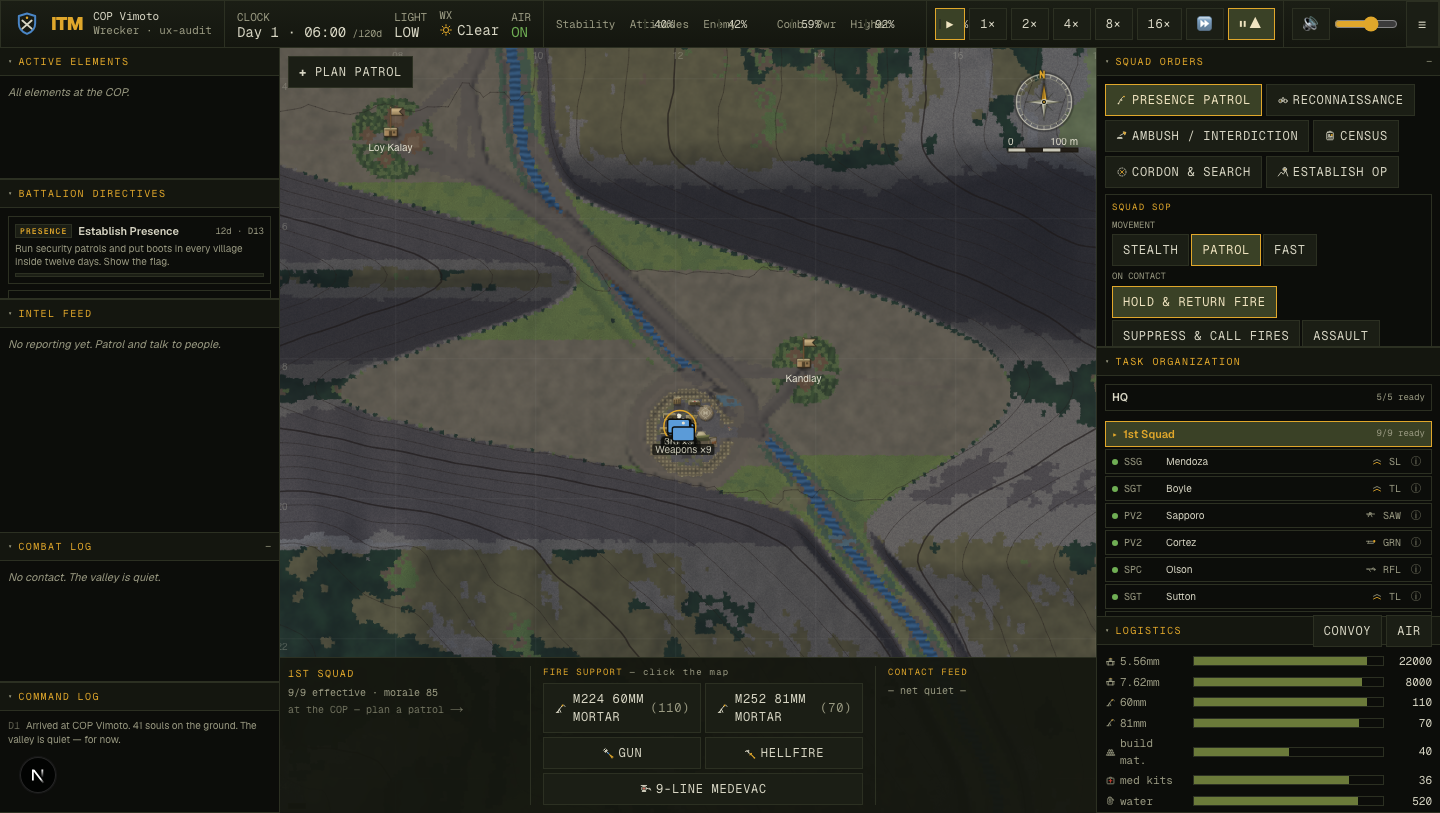
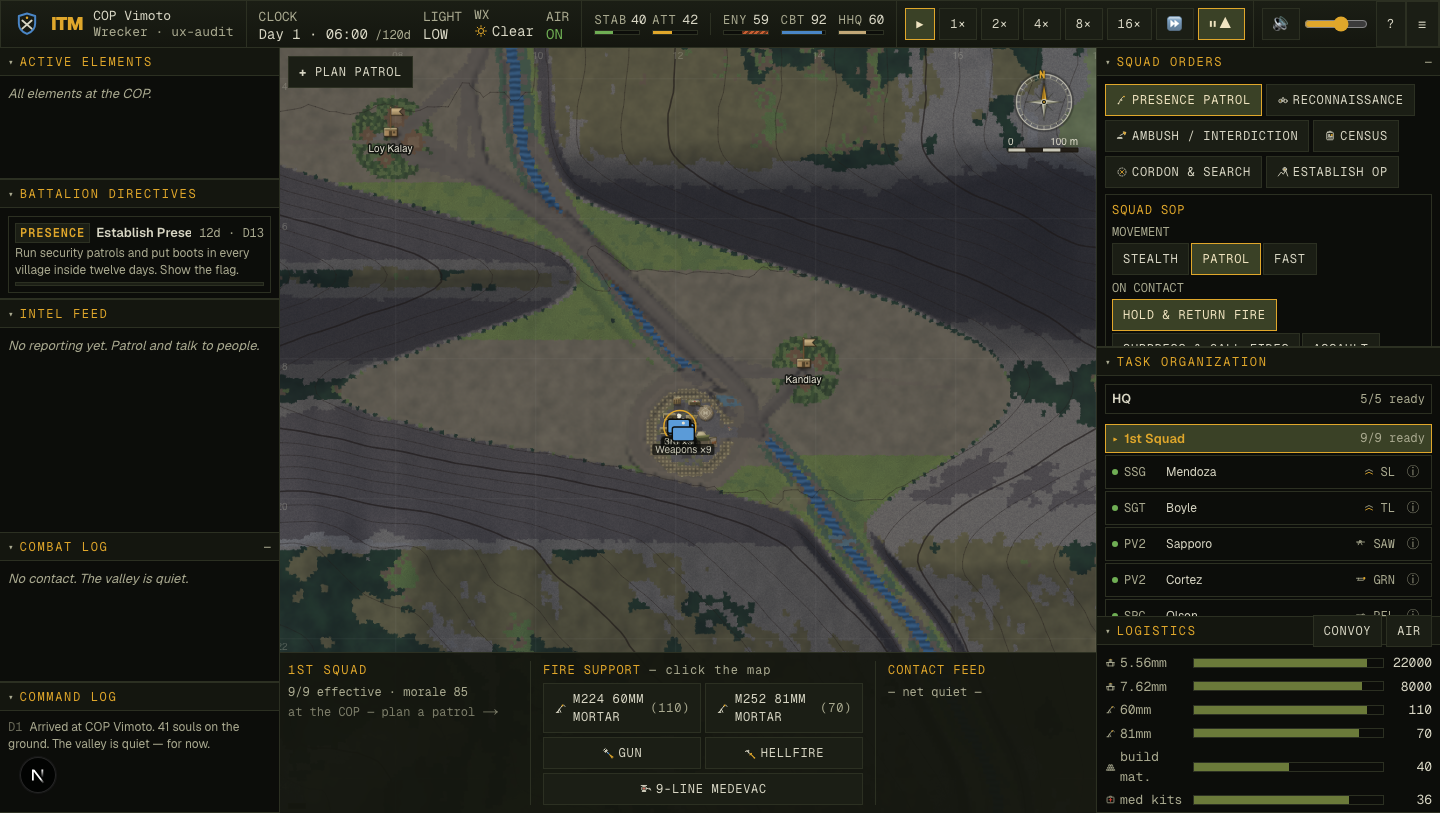
feat(ux): in-canvas tactical text floor — map labels >=11px with a dark halo
Round 3c. The map labels were the smallest text in the product (8–10px),
read ON the terrain under TIC's 1× clock — exactly where legibility matters
for the quality bar, and invisible to the DOM audit.

- haloText() helper: strokes a dark outline then fills, so terrain-floating
  labels (feature names, village names) stay legible over busy ground.
- village names 10→12px (haloed), feature names 9→11px (haloed), squad-intent
  banners / waypoint numbers / call-for-fire / scale bar bold 9→11px.

Canvas-only change; lib/render stays React-free. No clutter at default zoom
(verified). tsc clean.

diff --git a/components/world/WorldView.tsx b/components/world/WorldView.tsx
@@ -46,6 +46,16 @@ function unitsCentroid(us: { pos: { x: number; y: number } }[]): { x: number; y:
   return { x: x / n, y: y / n };
 }
 
+/** A map label with a dark halo so it stays legible over busy terrain (the
+ *  fillStyle is set by the caller; this strokes a dark outline, then fills). */
+function haloText(ctx: CanvasRenderingContext2D, text: string, x: number, y: number) {
+  ctx.lineJoin = "round";
+  ctx.lineWidth = 3;
+  ctx.strokeStyle = "rgba(12,13,10,0.85)";
+  ctx.strokeText(text, x, y);
+  ctx.fillText(text, x, y);
+}
+
 /** A capped maneuver arrow with a filled head (screen coords). */
 function drawManeuverArrow(ctx: CanvasRenderingContext2D, x0: number, y0: number, x1: number, y1: number, color: string) {
   const ang = Math.atan2(y1 - y0, x1 - x0);
@@ -224,13 +234,13 @@ export default function WorldView() {
       const fid = "marker-" + (f.kind === "bridge" ? "bridge" : f.kind === "junction" ? "junction" : f.kind === "saddle" ? "saddle" : f.kind === "spur" ? "spur" : f.kind === "draw" ? "draw" : "peak");
       const drew = hasSprite(fid) && drawScreenSprite(ctx, fid, x, y, 22);
       if (!drew) {
-        ctx.fillStyle = "rgba(216,214,196,0.5)";
-        ctx.font = "9px var(--font-mono, monospace)";
-        ctx.fillText("▲ " + f.name, x, y - 4);
-      } else if (cam.ppm > 0.4) {
         ctx.fillStyle = "rgba(216,214,196,0.62)";
-        ctx.font = "9px var(--font-mono, monospace)";
-        ctx.fillText(f.name, x, y + 16);
+        ctx.font = "11px var(--font-mono, monospace)";
+        haloText(ctx, "▲ " + f.name, x, y - 4);
+      } else if (cam.ppm > 0.4) {
+        ctx.fillStyle = "rgba(220,218,200,0.72)";
+        ctx.font = "11px var(--font-mono, monospace)";
+        haloText(ctx, f.name, x, y + 16);
       }
     }
 
@@ -301,9 +311,9 @@ export default function WorldView() {
         ctx.stroke();
       }
       ctx.textAlign = "center";
-      ctx.fillStyle = "rgba(232,229,212,0.95)";
-      ctx.font = "10px var(--font-mono, monospace)";
-      ctx.fillText(v.name, x, y + 14);
+      ctx.fillStyle = "rgba(234,231,214,0.98)";
+      ctx.font = "12px var(--font-mono, monospace)";
+      haloText(ctx, v.name, x, y + 15);
       if (v.lastVisitedDay >= 0) {
         ctx.fillStyle = "#6fae54";
         ctx.fillText("✓", x + 20, y - 8);
@@ -518,7 +528,7 @@ export default function WorldView() {
       else if (ss === "suppress") { txt = `${sqName} · SUPPRESSING`; col = "rgba(224,167,43,0.96)"; }
       else if (ss === "hold" || ss === "react") { txt = `${sqName} · CONTACT`; col = "rgba(224,167,43,0.96)"; }
       else if (cam.ppm < 0.4) continue; // out of contact: only label at closer zoom to avoid clutter
-      ctx.font = "bold 9px var(--font-mono, monospace)";
+      ctx.font = "bold 11px var(--font-mono, monospace)";
       const wpx = ctx.measureText(txt).width + 8;
       const ly = byTop - 24;
       ctx.fillStyle = "rgba(12,13,10,0.72)";
@@ -637,7 +647,7 @@ export default function WorldView() {
           ctx.fill();
         }
         ctx.fillStyle = drewWp ? "#1c160e" : "#0c0d0a";
-        ctx.font = "bold 9px var(--font-mono, monospace)";
+        ctx.font = "bold 11px var(--font-mono, monospace)";
         ctx.textAlign = "center";
         ctx.textBaseline = "middle";
         ctx.fillText(String(i + 1), px, drewWp ? py - 2 : py + 0.5);
@@ -671,7 +681,7 @@ export default function WorldView() {
       ctx.fillStyle = "rgba(12,13,10,0.8)";
       ctx.fillRect(fx + 12, fy - 22, 96, 13);
       ctx.fillStyle = "#e05028";
-      ctx.font = "bold 9px var(--font-mono, monospace)";
+      ctx.font = "bold 11px var(--font-mono, monospace)";
       ctx.textAlign = "left";
       ctx.fillText("CALL FOR FIRE", fx + 16, fy - 12);
       ctx.textAlign = "center";
@@ -727,7 +737,7 @@ export default function WorldView() {
     ctx.strokeStyle = "rgba(28,22,14,0.9)";
     ctx.strokeRect(bx, by, barPx, 4);
     ctx.fillStyle = "rgba(232,229,212,0.92)";
-    ctx.font = "9px var(--font-mono, monospace)";
+    ctx.font = "11px var(--font-mono, monospace)";
     ctx.textAlign = "right";
     ctx.textBaseline = "alphabetic";
     const label = niceM >= 1000 ? `${niceM / 1000} km` : `${niceM} m`;
